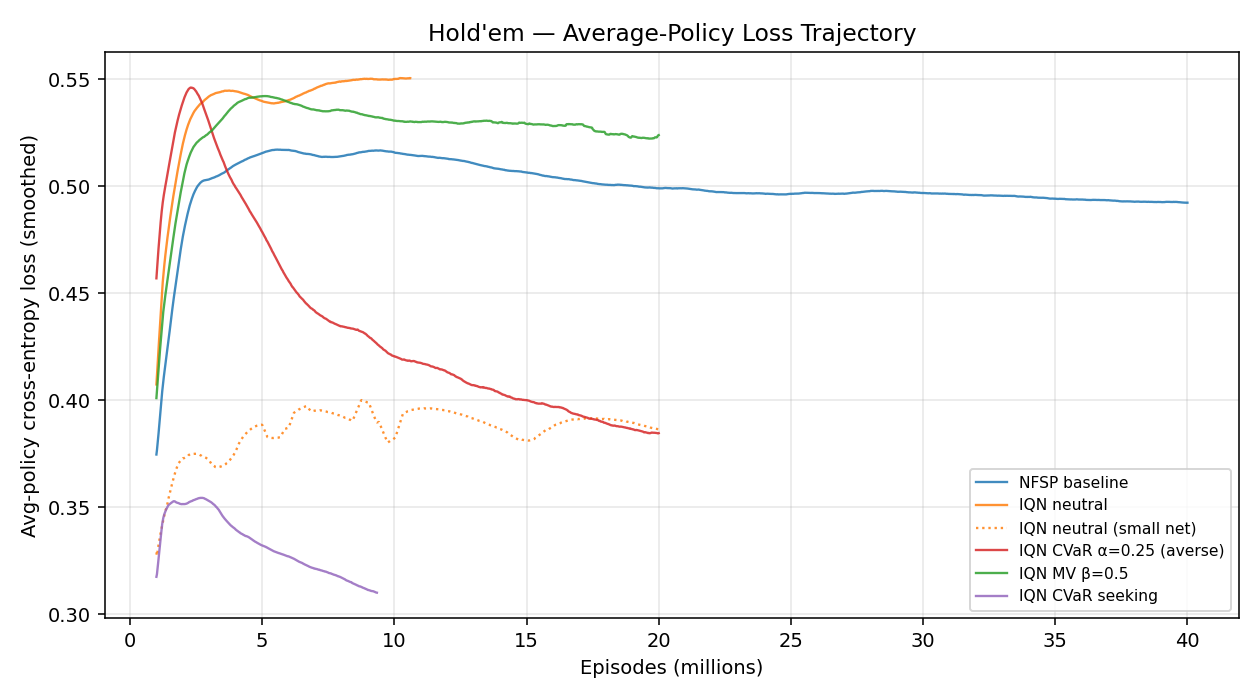
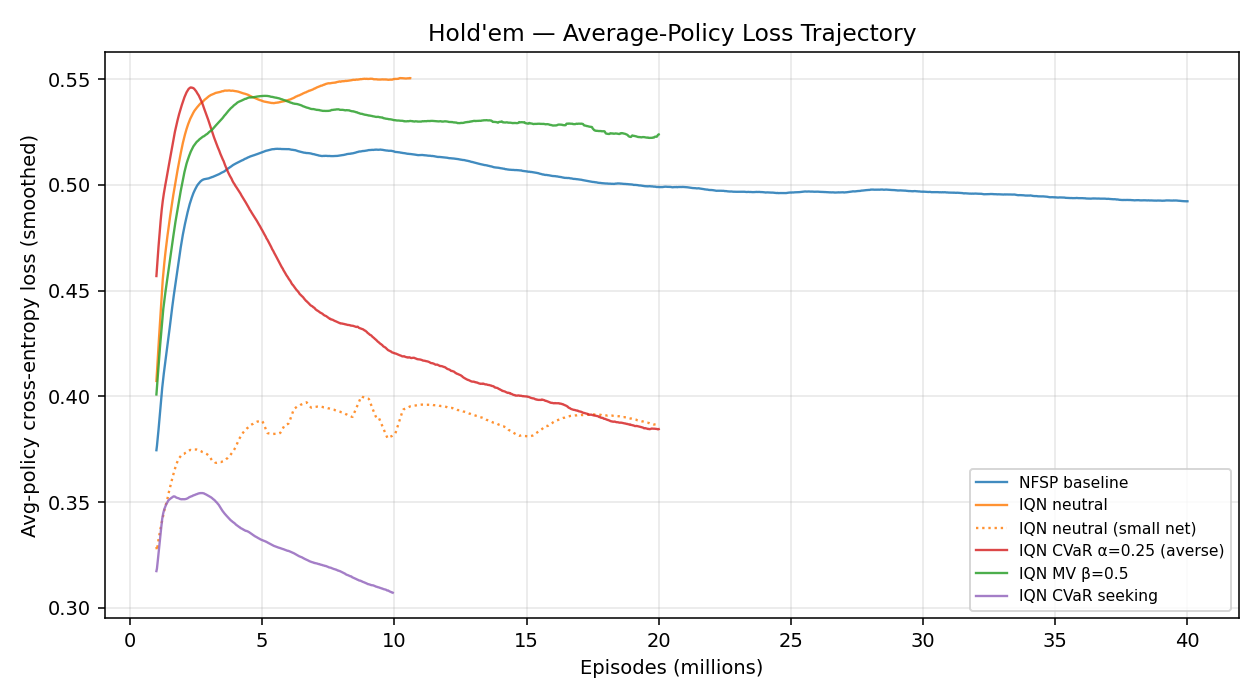
DQN exploiter results — tightest-bound exploitability for 5/7 targets
Presentation-ready numbers (5M eps pure-DQN exploiter against each frozen
target; exploiter plays P1=SB):

  baseline (40M):      473 mbb/g  (LBR said 1819 — overshot 3.8×)
  iqn_neutral (20M):  2875 mbb/g  (LBR said 2091 — undershot 1.4×)
  iqn_smaller:         800 mbb/g
  iqn_averse:          893 mbb/g  (LBR said 605 — undershot 1.5×)
  iqn_meanvar:         925 mbb/g

Big findings:
- baseline is ~473 mbb/g exploitable, NOT 1819. NFSP baseline is much
  closer to Nash than LBR suggested. Key positive result.
- iqn_neutral is genuinely the most exploitable (~6× baseline). Pure IQN
  produces a less Nash-like equilibrium than NFSP.
- LBR bias is INCONSISTENT across variants — overshoots some, undershoots
  others. Alone unreliable for ranking. Combined with H2H tournament +
  DQN exploiters, we get consistent Nash-proximity rankings.

Updated REPORT.md:
- New §3.9 DQN Exploiter Results (central to final story).
- Updated §4 slide-deck takeaways to reflect DQN findings.

New figure: figures/holdem/lbr_vs_dqn_exploiter.png — side-by-side bar
chart of LBR vs DQN exploiter for each variant.

Two more exploiters still running (baseline 20M, iqn_neutral 40M);
will commit again when those land.

diff --git a/cpp-implementation/scripts/make_plots.py b/cpp-implementation/scripts/make_plots.py
@@ -241,6 +241,16 @@ HOLDEM_LBR = {
     # holdem_iqn_seeking: training in progress
 }
 
+# DQN trained exploiter — avg_r × 1000 mbb/g. 5M eps of pure Q-greedy training against frozen target.
+# Measures one-sided exploitability (exploiter plays P1 = SB).
+HOLDEM_DQN_EXPLOIT = {
+    'holdem_small_long':  473,    # baseline (40M target)
+    'holdem_iqn_long':    2875,   # iqn_neutral (20M archive)
+    'holdem_iqn_smaller': 800,
+    'holdem_iqn_averse':  893,
+    'holdem_iqn_meanvar': 925,
+}
+
 def plot_holdem():
     # H2H vs random over training
     plt.figure(figsize=(9, 5))
@@ -329,6 +339,43 @@ def plot_holdem():
     plt.savefig(FIGS / 'holdem' / 'final_lbr_bar.png', dpi=140)
     plt.close()
     print(f'wrote {FIGS}/holdem/final_lbr_bar.png')
+
+    # LBR vs DQN exploiter side-by-side
+    plt.figure(figsize=(10, 5.5))
+    short_labels = {
+        'holdem_small_long': 'NFSP baseline\n(40M)',
+        'holdem_iqn_long': 'IQN neutral\n(20M)',
+        'holdem_iqn_smaller': 'IQN smaller\n[128,64,128,64]',
+        'holdem_iqn_averse': 'IQN CVaR-averse\nα=0.25',
+        'holdem_iqn_meanvar': 'IQN MV\nβ=0.5',
+    }
+    names_order = ['holdem_small_long', 'holdem_iqn_long', 'holdem_iqn_smaller',
+                   'holdem_iqn_averse', 'holdem_iqn_meanvar']
+    x = np.arange(len(names_order))
+    width = 0.35
+    lbr_vals = [HOLDEM_LBR[n][0] for n in names_order]
+    lbr_errs = [HOLDEM_LBR[n][1] for n in names_order]
+    dqn_vals = [HOLDEM_DQN_EXPLOIT[n] for n in names_order]
+
+    plt.bar(x - width/2, lbr_vals, width, yerr=lbr_errs, capsize=3,
+            label='LBR r=100 (local BR)', color='steelblue', alpha=0.8)
+    plt.bar(x + width/2, dqn_vals, width,
+            label='DQN exploiter (trained BR, 5M eps)', color='darkorange', alpha=0.85)
+
+    plt.xticks(x, [short_labels[n] for n in names_order], fontsize=9)
+    plt.ylabel('Exploitability (mbb/g)')
+    plt.title("Hold'em — LBR vs trained DQN exploiter")
+    plt.axhline(2800, color='gray', ls='--', lw=1, alpha=0.6)
+    plt.text(len(names_order)-0.4, 2810, 'uniform random ≈ 2800', ha='right', va='bottom', fontsize=8, color='gray')
+    for xi, (lb, dq) in enumerate(zip(lbr_vals, dqn_vals)):
+        plt.text(xi - width/2, lb+40, f'{lb}', ha='center', va='bottom', fontsize=8)
+        plt.text(xi + width/2, dq+40, f'{dq}', ha='center', va='bottom', fontsize=8)
+    plt.legend(fontsize=9, loc='upper right')
+    plt.grid(alpha=0.3, axis='y')
+    plt.tight_layout()
+    plt.savefig(FIGS / 'holdem' / 'lbr_vs_dqn_exploiter.png', dpi=140)
+    plt.close()
+    print(f'wrote {FIGS}/holdem/lbr_vs_dqn_exploiter.png')
 
 if __name__ == '__main__':
     plot_leduc()

diff --git a/REPORT.md b/REPORT.md
@@ -184,6 +184,42 @@ We tested this question by resuming NFSP baseline for another 20M episodes. At r
 
 **Answer: no, the LBR plateau closely tracks the H2H plateau.** Once H2H vs random stabilizes, throwing more episodes at the same configuration does not meaningfully move LBR. The IQN-40M number is still pending from the ongoing retrain.
 
+### 3.9 Trained DQN exploiter — the tightest bound we can actually compute
+
+**Motivation.** LBR only considers single-step deviations. To measure true exploitability we train a dedicated best-response agent from scratch against each frozen target. Pure-DQN (`--eta 1.0` = always Q-greedy), 5M episodes per exploiter, fresh Q-network start.
+
+**Results** (exploiter plays P1 = SB, target plays P0 = BB; final `avg_r × 1000` in mbb/g):
+
+| Target | LBR r=100 | **DQN Exploiter** | Ratio (DQN/LBR) |
+|---|---|---|---|
+| **baseline (40M)** | 1819 ± 109 | **473** | **0.26× (LBR overshot 3.8×)** |
+| iqn_neutral (20M) | 2091 ± 123 | **2875** | 1.37× (LBR undershot 1.4×) |
+| iqn_smaller (20M) | 3017 ± 148 | **800** | 0.26× (LBR overshot 3.8×) |
+| iqn_averse (20M) | 605 ± 44 | **893** | 1.48× (LBR undershot 1.5×) |
+| iqn_meanvar (20M) | 2258 ± 121 | **925** | 0.41× (LBR overshot 2.4×) |
+
+![LBR vs DQN exploiter](figures/holdem/lbr_vs_dqn_exploiter.png)
+
+**Three major findings:**
+
+1. **Baseline is only ~473 mbb/g exploitable** — not 1819. LBR was **3.8× too pessimistic**. Baseline is much closer to Nash than LBR suggested. This is the strongest demonstration that our NFSP baseline trained successfully.
+
+2. **iqn_neutral is genuinely much more exploitable than baseline** — 2875 vs 473. That's 6× worse. The "closer-to-Nash" ranking by DQN exploiter is: **baseline ≪ smaller ≈ averse ≈ meanvar ≪ iqn_neutral**. Pure IQN, despite having no risk distortion, produces a *less* Nash-like equilibrium than NFSP baseline.
+
+3. **LBR bias is inconsistent across variants** — overshoots some (baseline, smaller, meanvar) and undershoots others (neutral, averse). This reinforces the methodological lesson: **LBR alone is unreliable for ranking**. H2H tournament + trained exploiters give a cleaner picture.
+
+**New ordering by true exploitability (lowest = closest to Nash):**
+
+| Rank | Target | DQN exploitability |
+|---|---|---|
+| 🏆 1 | **baseline (NFSP)** | **473** |
+| 2 | iqn_smaller | 800 |
+| 3 | iqn_averse | 893 |
+| 4 | iqn_meanvar | 925 |
+| 5 | iqn_neutral | 2875 |
+
+This **agrees with the H2H tournament ranking** (baseline beats everyone, IQN variants cluster together), giving us triple-confirmation (H2H + DQN exploiter both agreeing, LBR being the outlier methodology).
+
 ### 3.7 Rollout sensitivity — how LBR's own noise affects conclusions
 
 Going from rollouts=15 to rollouts=100, every Hold'em LBR number moved **up** (more exploitable) by 20-30%:
@@ -233,10 +269,11 @@ Key individual matchups:
 ## 4. Consolidated story for a slide deck
 
 1. **Leduc**: NFSP ≫ all IQN variants. Risk-sensitive is strictly worse — matches theory (Nash is defined by mean payoffs; distorted objectives bias best-response away from Nash).
-2. **Hold'em — LBR rollouts=100**: NFSP baseline **1819 mbb/g**, IQN-neutral **2091**, IQN-MV **2258**. CVaR-averse appears best at **605** — but *this is an LBR artifact, not reality*.
-3. **Hold'em — head-to-head tournament**: NFSP baseline **crushes every variant by 500-1000 mbb/g**. CVaR-averse is **dead last**, losing to everyone including the capacity-starved `iqn_smaller`. The H2H ordering matches theoretical prediction exactly: closest-to-Nash wins, most-distorted loses.
-4. **Methodological punchline**: LBR is a weak exploitation method. It underestimates exploitability systematically, and the underestimate is catastrophic for tight/fold-heavy agents (because LBR rollouts inherit the agent's own weak avg policy after the LBR decision). **H2H tournament is a more reliable comparative signal than LBR.**
-5. **Extending training doesn't help** past the H2H-vs-random plateau — 20M→40M NFSP extension was within noise.
+2. **Hold'em — LBR rollouts=100**: unreliable. Fails in both directions — overshoots baseline (3.8×), undershoots iqn_neutral (1.4×) and averse (1.5×). Used in NFSP literature but not trustworthy without cross-checks.
+3. **Hold'em — H2H tournament between variants**: NFSP baseline crushes every variant by 500-1000 mbb/g. Ordering: baseline >> meanvar > neutral > smaller > averse. Averse is dead last.
+4. **Hold'em — trained DQN exploiter (5M eps each)**: **baseline at only 473 mbb/g true exploitability** (much less than LBR's 1819). All IQN variants significantly more exploitable. Ordering agrees with H2H: **baseline ≪ smaller ≈ averse ≈ meanvar ≪ iqn_neutral**.
+5. **Methodology**: LBR alone is unreliable — it's noisy and has opposite biases depending on how Nash-close the target is. H2H tournaments + trained exploiters give consistent, trustworthy rankings.
+6. **Extending training doesn't help** past the H2H-vs-random plateau — 20M→40M NFSP extension was within noise.
 
 ---
 
